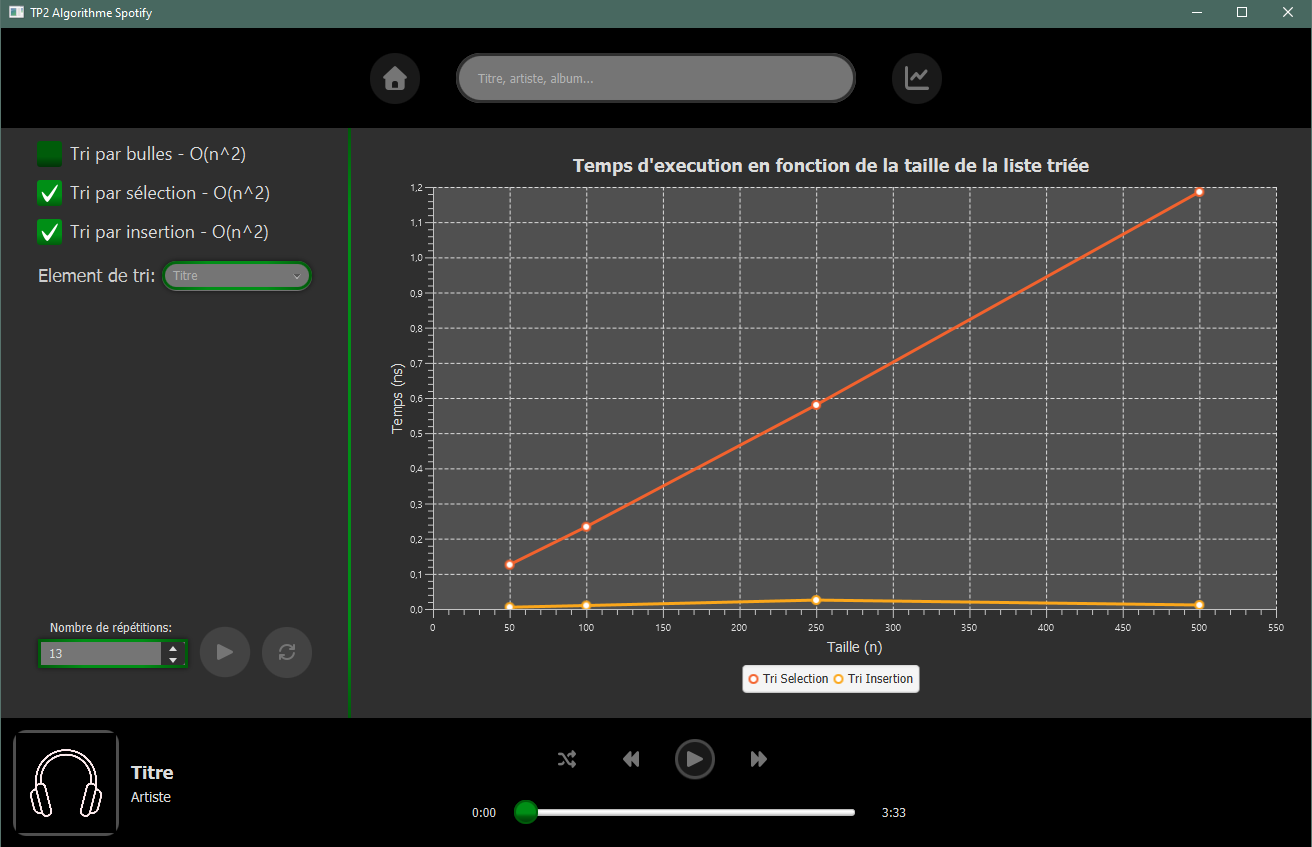
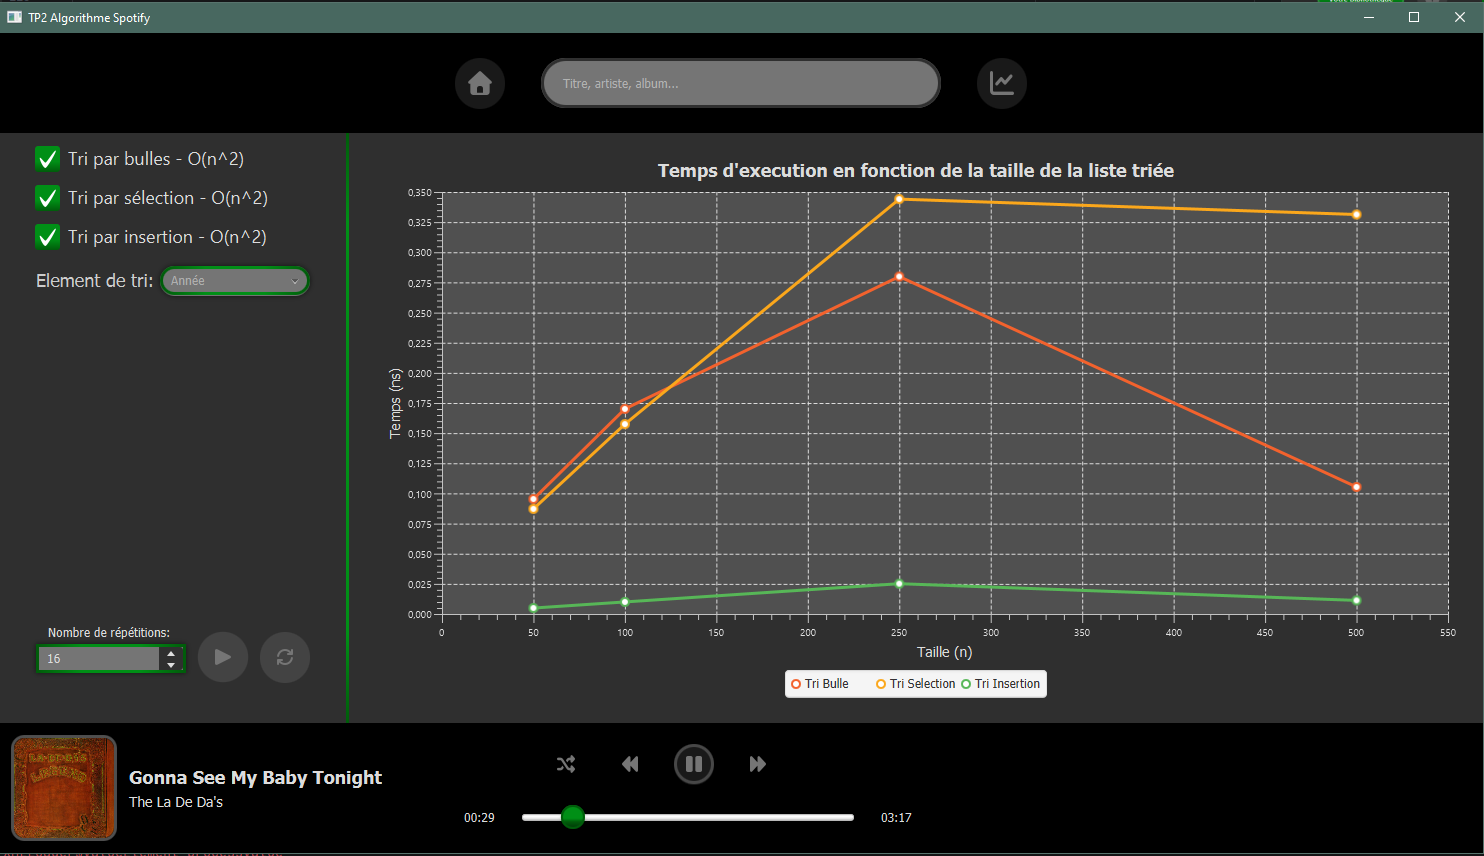
update finale? du readme!

diff --git a/README.md b/README.md
@@ -16,11 +16,11 @@
 
 ## Équipe
 
-| Nom complet      | Adresse courriel            | Contribution principale                                      |
-|------------------|-----------------------------|--------------------------------------------------------------|
-| Francis Boisvert | e2595782@cmaisonneuve.qc.ca | Modèles, Service, Tris, Algo, Graphiques, Separation du main |
-| Clément Laflamme | e2595952@cmaisonneuve.qc.ca | [ex : UI FXML, Controller, CSS]                              |
-| Mathieu Gosselin | e2596321@cmaisonneuve.qc.ca | Design, UI FXML, CSS, Lecteur, un peu de Controller          |
+| Nom complet      | Adresse courriel            | Contribution principale                                                                                             |
+|------------------|-----------------------------|---------------------------------------------------------------------------------------------------------------------|
+| Francis Boisvert | e2595782@cmaisonneuve.qc.ca | Modèles, Service, Tris, Algo, Graphiques, Separation du main                                                        |
+| Clément Laflamme | e2595952@cmaisonneuve.qc.ca | Fonctions des tableaux, Affichage des playlists/chansons, Pagination, Tri/Filtres en temps réel, Separation du main |
+| Mathieu Gosselin | e2596321@cmaisonneuve.qc.ca | Design, UI FXML, CSS, Lecteur, un peu de Controller                                                                 |
 
 ---
 
@@ -87,37 +87,13 @@ tp2_algorithme_spotify/
         │   └── com/maisonneuve/tp2_algorithme_spotify/
         │       ├── algorithme/
         │       │   └── tri/
-        │       │       ├── Algorithme.java
-        │       │       ├── TriBulle.java
-        │       │       ├── TriInsertion.java
-        │       │       └── TriSelection.java
         │       ├── benchmark/
-        │       │   ├── Chronometre.java
-        │       │   └── ResultatMesure.java
         │       ├── controller/
-        │       │   ├── ChansonController.java
-        │       │   ├── GraphiqueController.java
-        │       │   ├── LecteurController.java
-        │       │   ├── MainController.java
-        │       │   └── NouvellePlaylistController.java
         │       ├── model/
-        │       │   ├── Chanson.java
-        │       │   ├── ChansonDAO.java
-        │       │   ├── Genre.java
-        │       │   ├── Playlist.java
-        │       │   └── TriMap.java
         │       ├── service/
-        │       │   ├── Bibliotheque.java
-        │       │   ├── BibliothequeService.java
-        │       │   ├── LecteurService.java
-        │       │   ├── PlaylistManager.java
-        │       │   ├── PlaylistService.java
-        │       │   └── TriComparateurService.java
         │       ├── utils/
-        │       │   └── TimeUtils.java
         │       ├── Launcher.java
-        │       ├── MainFx.java
-        │       └── module-info.java
+        │       └── MainFx.java 
         └── resources/
             ├── data/
             │   └── spotifyData.csv
@@ -184,7 +160,10 @@ Aucune
 
 ## Difficultés rencontrées
 
-[A COMPLETER : décrire les 2-3 principales difficultés rencontrées et comment vous les avez résolues. Cette section n'est pas notée, mais elle nous aide à améliorer les prochains labos.]
+- Nous avons eu des problèmes avec le MainController qui était devenu trop gros pour être bien géré par github. Des lignes de code ont été écrasées et nous avons du reprendre ou réintégrer celles-ci.
+- Ce problème nous a aussi poussé à splitter le MainController en plusieurs petits Controllers ce qui sera utile pour le maintien de l'app dans le futur. [Clément, Francis]
+- Figurer comment transposer ce qu'on connaissait du BigOLab pour fonctionner avec des chansons plutôt que de simple Int a été laborieux. [Francis]
+- Arriver dans la partie code du projet après avoir passé le début du projet sur le FXML et le CSS était intimidant. [Mathieu]
 
 ---
 
@@ -193,7 +172,7 @@ Aucune
 | Membre           | % contribution estimée | Ce sur quoi j'ai travaillé                                                                    |
 |------------------|------------------------|-----------------------------------------------------------------------------------------------|
 | Francis Boisvert | 33%                    | Modeles, Algorithme, Tri, Graphique, Services, Utils, Separation du main en modules |
-| Clément Laflamme | 33%                    |                                                                                               |
+| Clément Laflamme | 33%                    | Fonctions des tableaux, Affichage des playlists/chansons, Pagination, Tri/Filtres en temps réel, Separation du main                                                                                             |
 | Mathieu Gosselin | 33%                    | Design, UI FXML, CSS, Lecteur, un peu de Controller                                           |
 
 ---
@@ -224,6 +203,6 @@ leur menu:
 
 ## Historique Git
 
-**Nombre total de commits** : 98+
+**Nombre total de commits** : 116+
 **Date du premier commit** : 2026-09-02
 **Date du dernier commit** : 2026-09-13
